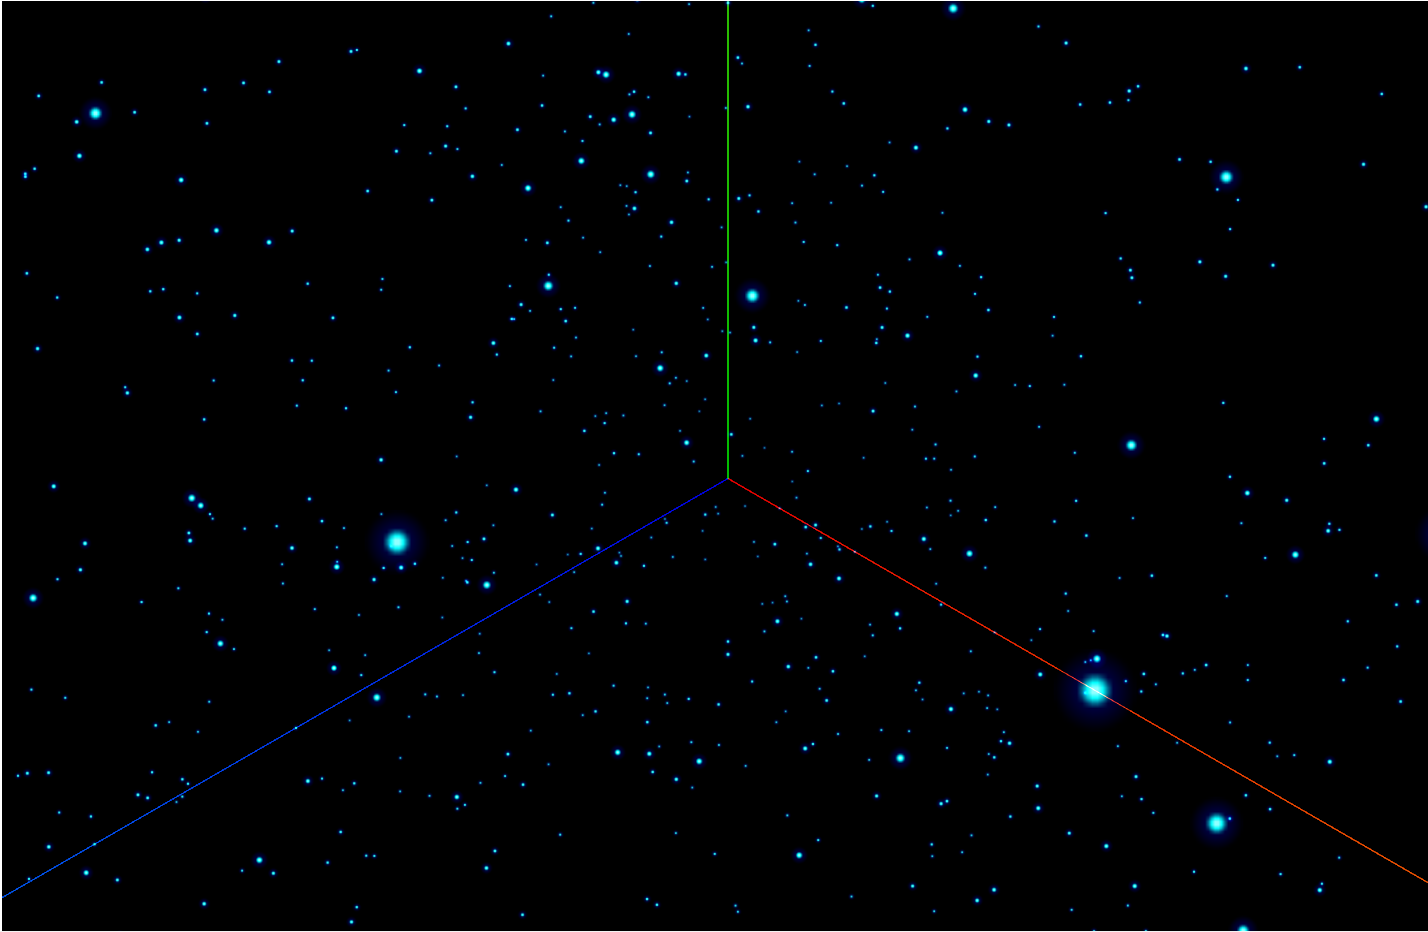
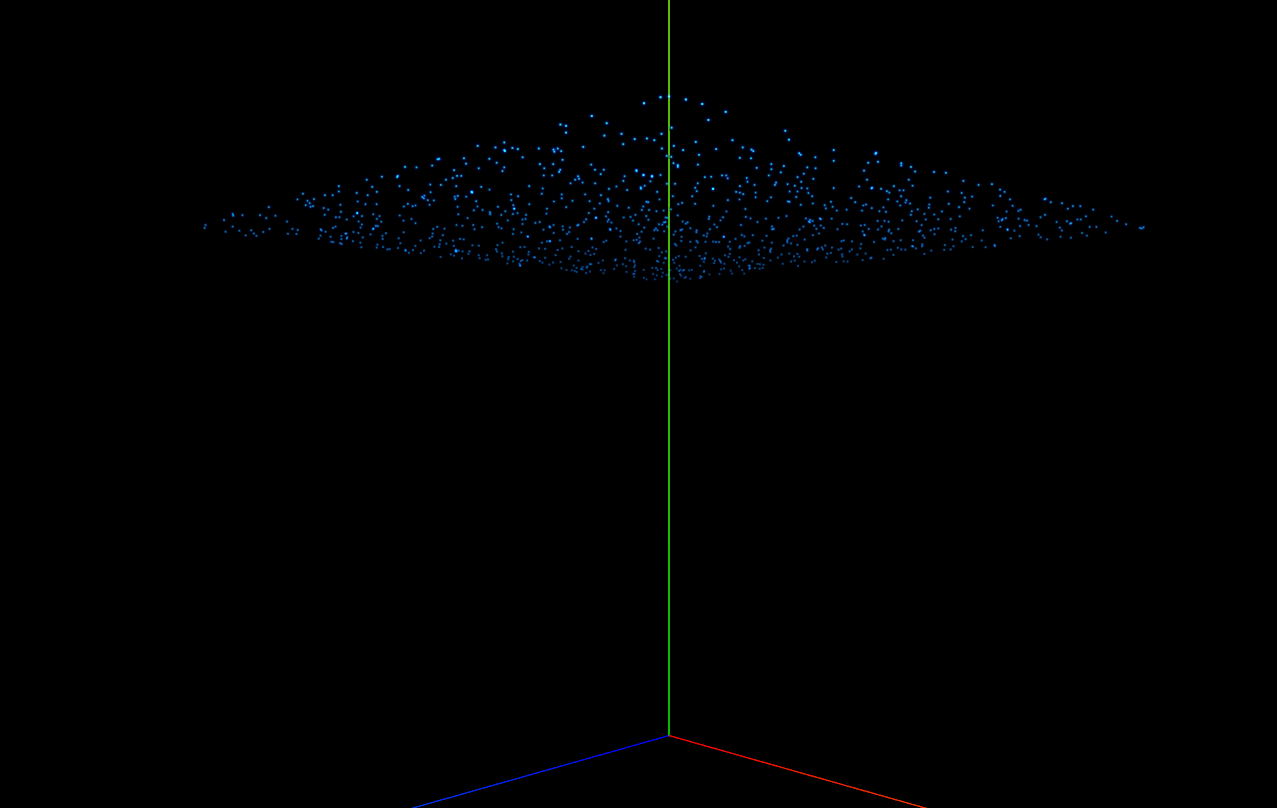
新版

diff --git a/index.js b/index.js
@@ -5,8 +5,8 @@ $(function () {
 
     // console.log(WIDTH + ";" + HEIGHT);
     var camera = new THREE.PerspectiveCamera(45, WIDTH / HEIGHT, 0.1, 100000);
-    camera.position.set(300, 300, 300);
-    camera.lookAt(new THREE.Vector3(0, 0, 0));
+    camera.position.set(500, 200, 500);
+    camera.lookAt(new THREE.Vector3(0, 200, 0));
     var scene = new THREE.Scene();
 
     var axis = new THREE.AxisHelper(500);
@@ -33,9 +33,7 @@ $(function () {
 
         for (var index = 0; index < 1000; index++) {
             geometry.vertices.push(new THREE.Vector3(
-                Math.floor(Math.random() * (-300) + 300),
-                Math.floor(Math.random() * (-300) + 300),
-                Math.floor(Math.random() * (-300) + 300)
+                Math.floor(Math.random() * (-300) + 300), 300, Math.floor(Math.random() * (-300) + 300)
             ));
         }
 
@@ -64,20 +62,44 @@ $(function () {
         }
     }
 
-    function pointsAnimation() {
-        pointsArray.geometry.vertices.forEach(function (p, i) {
-            p.set(
-                Math.floor(Math.random() * (-300) + 300),
-                Math.floor(Math.random() * (-300) + 300),
-                Math.floor(Math.random() * (-300) + 300)
-            );
-        });
+    var dstRadius = 300;
 
-        pointsArray.geometry.verticesNeedUpdate = true;
+    function pointsAnimation() {
+        // pointsArray.geometry.vertices.forEach(function (p, i) {
+        //     var x = p.x;
+        //     var y = p.y;
+        //     var z = p.z;
+
+        //     p.set(
+        //         Math.floor(x, y, z)
+        //     );
+        // });
+
+        // pointsArray.geometry.verticesNeedUpdate = true;
+
+        var tween = new TWEEN.Tween({ radius: 300 })
+            .to({ radius: 0 }, 5000)
+            .easing(TWEEN.Easing.Quadratic.InOut)
+            .onUpdate(function () {
+                var r = this.radius;
+                console.log(r);
+                pointsArray.geometry.vertices.forEach(function (p, i) {
+                    var x = p.x;
+                    var y = p.y <= 0 ? 300 : r;
+                    var z = p.z;
+                    p.set(x, y, z);
+                });
+
+                pointsArray.geometry.verticesNeedUpdate = true;
+            });
+        tween.start();
     }
 
+    pointsAnimation();
+
     function render() {
-        pointsAnimation();
+
+        TWEEN.update();
         requestAnimationFrame(render);
 
         webglRender.render(scene, camera);

diff --git a/index.html b/index.html
@@ -4,6 +4,7 @@
         <title></title>
 
         <script src="jquery.js"></script>
+        <script src="Tween.js"></script>
         <script src="three.js"></script>
     </head>
 
